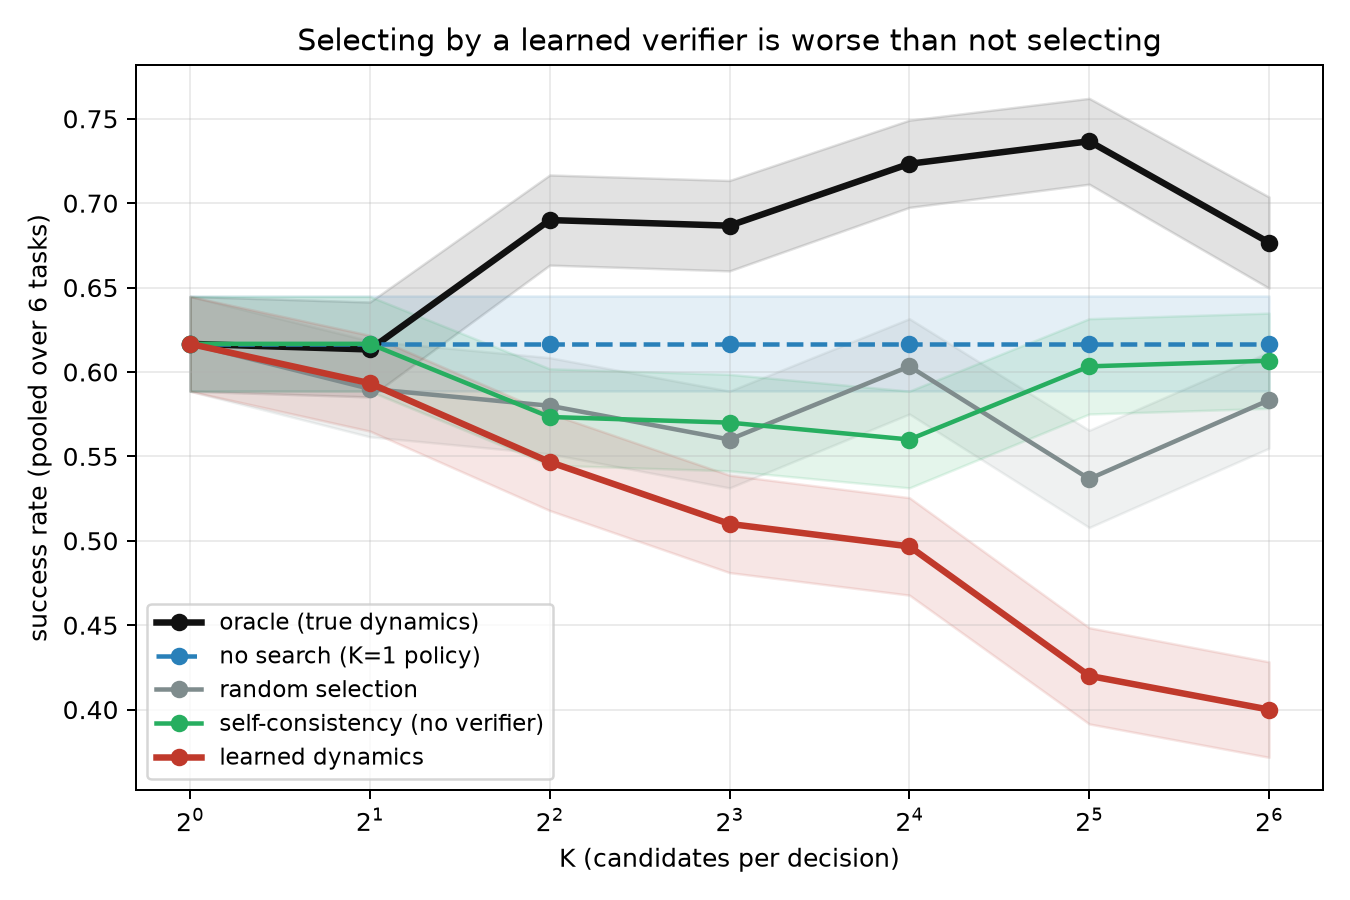
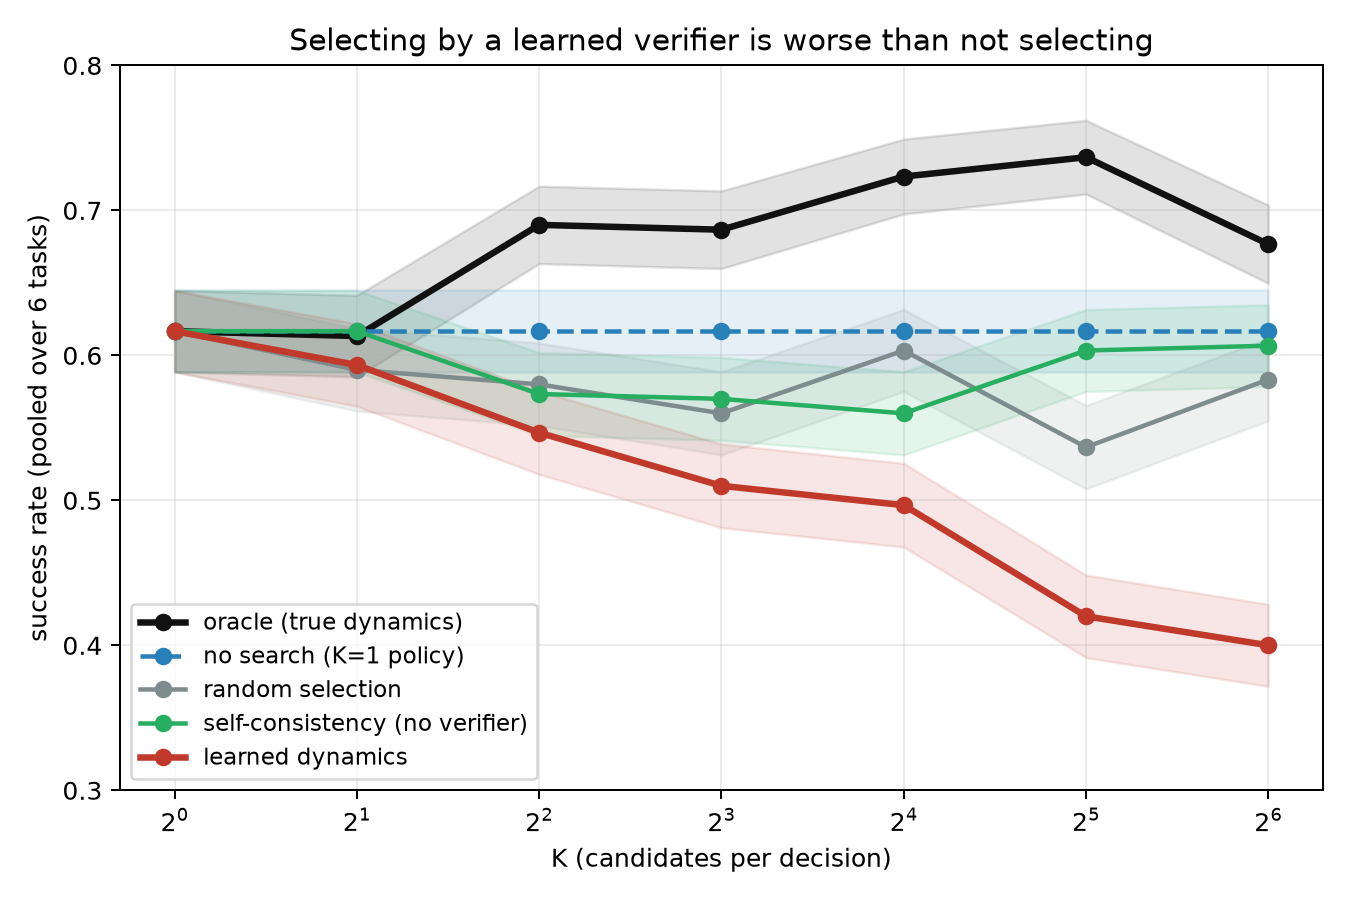
more paper figures

diff --git a/scripts/analysis/plot_degeneration.py b/scripts/analysis/plot_degeneration.py
@@ -1,0 +1,71 @@
+"""Replacement for fig4: an uninformative model degenerates to random selection.
+
+The degradation-vs-model-error scatter does not show a usable trend (4 points
+per task, heavy noise). What IS clean is the comparison of K-curves: the learned
+arm at the worst model quality overlaps the random-selection arm, while better
+models degrade well below it. That supports the mechanism -- harm requires a
+verifier informative enough to steer -- without claiming a dose-response.
+"""
+
+from __future__ import annotations
+
+import argparse
+from pathlib import Path
+
+import matplotlib
+matplotlib.use("Agg")
+import matplotlib.pyplot as plt
+import numpy as np
+
+import sys
+sys.path.insert(0, "scripts/analysis")
+from make_figures import series  # noqa: E402
+
+
+def main():
+    p = argparse.ArgumentParser()
+    p.add_argument("--task", default="basketball-v3")
+    p.add_argument("--degdir", default="experiments/rollouts_degrade_bball")
+    p.add_argument("--out", default="experiments/figs/fig4_degeneration.png")
+    a = p.parse_args()
+
+    fig, ax = plt.subplots(figsize=(7.5, 5))
+
+    # Reference arms from the main sweep.
+    s, ks = series(f"experiments/rollouts/{a.task}_rollouts.jsonl")
+    for arm, colr, lab, ls in (("first", "#2980b9", "no search", "--"),
+                               ("random", "#7f8c8d", "random selection", "-")):
+        if arm in s:
+            y = [s[arm][k]["success"] for k in ks]
+            ax.plot(ks, y, color=colr, ls=ls, lw=2.0, marker="o", ms=4, label=lab)
+
+    shades = {"d0": ("#7b1fa2", "best model"), "d3": ("#e67e22", "worst model")}
+    for tag, (colr, lab) in shades.items():
+        f = Path(a.degdir) / tag / f"{a.task}_rollouts.jsonl"
+        if not f.exists():
+            continue
+        sd, kd = series(f)
+        if "learned" not in sd:
+            continue
+        y = [sd["learned"][k]["success"] for k in kd]
+        ax.plot(kd, y, color=colr, lw=2.4, marker="s", ms=5,
+                label=f"learned dynamics, {lab}")
+
+    if "learned" in s:
+        y = [s["learned"][k]["success"] for k in ks]
+        ax.plot(ks, y, color="#c0392b", lw=2.6, marker="o", ms=5,
+                label="learned dynamics, mid model")
+
+    ax.set_xscale("log", base=2)
+    ax.set_ylim(0.25, 0.75)
+    ax.set_xlabel("K (candidates per decision)")
+    ax.set_ylabel("success rate")
+    ax.set_title(f"An uninformative model degenerates to random selection\n{a.task}",
+                 fontsize=11)
+    ax.grid(alpha=0.25); ax.legend(fontsize=8.5, loc="lower left")
+    fig.tight_layout(); fig.savefig(a.out, dpi=180); plt.close(fig)
+    print("wrote", a.out)
+
+
+if __name__ == "__main__":
+    main()

diff --git a/scripts/analysis/make_figures.py b/scripts/analysis/make_figures.py
@@ -113,6 +113,7 @@ def fig2(rolldir, out):
                 ls="--" if arm == "first" else "-")
         ax.fill_between(ks, y - se, y + se, color=COLORS[arm], alpha=0.12)
     ax.set_xscale("log", base=2)
+    ax.set_ylim(0.30, 0.80)
     ax.set_xlabel("K (candidates per decision)")
     ax.set_ylabel("success rate (pooled over 6 tasks)")
     ax.set_title("Selecting by a learned verifier is worse than not selecting")
@@ -175,7 +176,7 @@ def fig4(out):
             continue
         o = np.argsort(xs)
         xs, ys = np.array(xs)[o], np.array(ys)[o]
-        ax.plot(xs, ys, marker="o", ms=8, lw=1.8, color=colr, label=task)
+        ax.scatter(xs, ys, s=70, color=colr, label=task, zorder=3)
         for x, y in zip(xs, ys):
             ax.annotate(f"{x:.2f}", (x, y), fontsize=7,
                         xytext=(0, 7), textcoords="offset points", ha="center")
@@ -187,7 +188,7 @@ def fig4(out):
     ax.set_xscale("log")
     ax.set_xlabel("dynamics model error (median sigma, 4-step rollout)")
     ax.set_ylabel("degradation:  success(K=1) - success(K=64)")
-    ax.set_title("Search harm is non-monotonic in model quality")
+    ax.set_title("Degradation vs model error (no reliable trend; supplementary)", fontsize=10)
     ax.grid(alpha=0.25); ax.legend(fontsize=9)
     fig.tight_layout(); fig.savefig(out, dpi=180); plt.close(fig)
     print("wrote", out)
